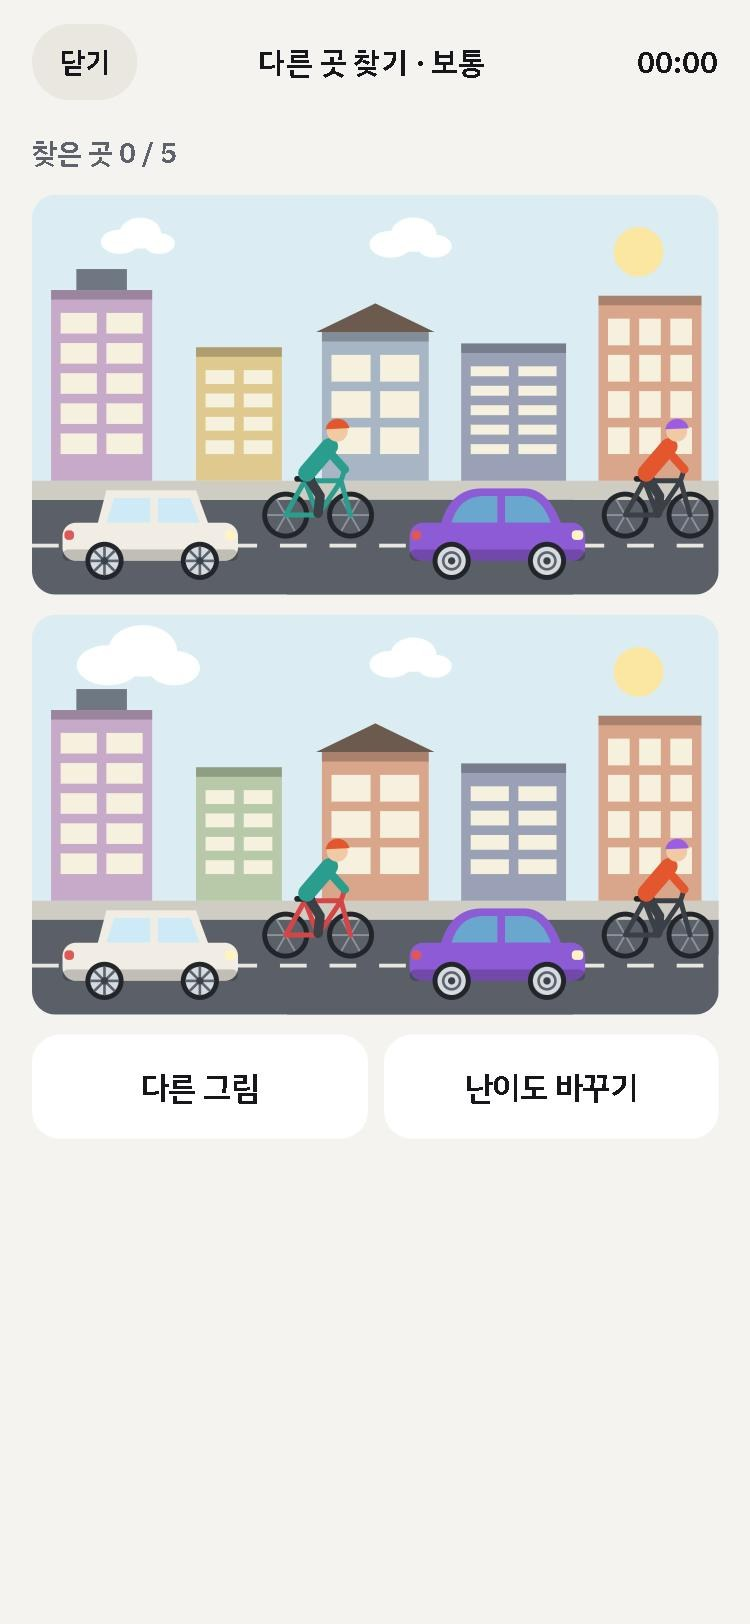
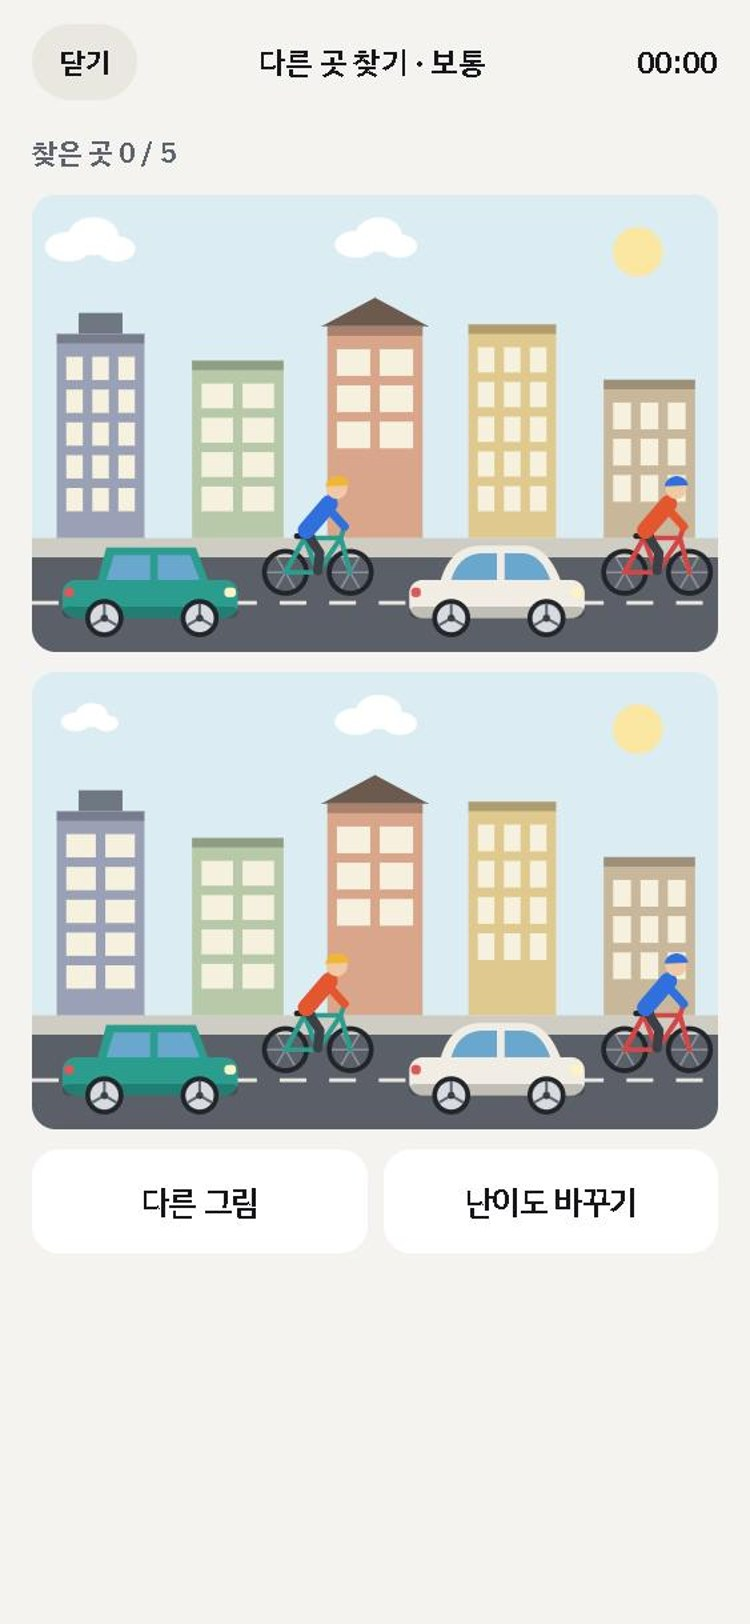
다른 곳 찾기: 구름이 건물에 가리지 않게 하늘을 넓힘

diff --git a/src/lib/spot.js b/src/lib/spot.js
@@ -11,7 +11,8 @@ export const SPOT_LEVELS = {
 }
 
 export const WRONG_PENALTY = 5 // 틀린 곳을 누르면 더해지는 시간(초)
-export const SCENE = { w: 360, h: 210, ground: 150 }
+// 하늘을 넉넉히 둬서 구름이 건물에 가리지 않게 한다. road는 자동차·자전거를 내려 그리는 만큼
+export const SCENE = { w: 360, h: 240, ground: 180, road: 30 }
 
 const WHEELS = ['spoke3', 'spoke4', 'spoke5', 'spoke6', 'spoke8', 'disc', 'ring']
 const RIMS = ['#d7dbe0', '#f2c14e', '#b9c4cf', '#e8e2d0']
@@ -98,7 +99,7 @@ function wheels() {
         id: `w${row}${col}`,
         type: 'wheel',
         cx: 45 + col * 90,
-        cy: 56 + row * 100,
+        cy: 66 + row * 108,
         r: 38,
         style: pick(WHEELS),
         rim: pick(RIMS),
@@ -120,7 +121,7 @@ function street(buildingCount, tilted) {
       type: 'building',
       x: Math.round(i * slot + (slot - w) / 2),
       w,
-      h: rand(70, 118),
+      h: rand(70, 112),
       color: pick(WALLS),
       roof: pick(ROOFS),
       cols: rand(2, 3),
@@ -130,7 +131,7 @@ function street(buildingCount, tilted) {
     })
   }
   ;[rand(30, 80), rand(170, 240)].forEach((x, i) =>
-    list.push({ id: `s${i}`, type: 'cloud', x, y: rand(16, 34), s: pick([0.9, 1, 1.1]) }),
+    list.push({ id: `s${i}`, type: 'cloud', x, y: rand(14, 24), s: pick([0.9, 1, 1.1]) }),
   )
   // 자전거(뒤쪽 차로)와 자동차(앞쪽 차로)는 서로 가리지 않게 번갈아 놓는다
   ;[122, 300].forEach((x, i) =>
@@ -174,9 +175,9 @@ export function generateSpot(level) {
 // 물체가 차지하는 네모 영역. 누르는 범위와 찾았다는 표시에 쓴다
 export function boxOf(o) {
   if (o.type === 'wheel') return { x: o.cx - o.r - 4, y: o.cy - o.r - 4, w: o.r * 2 + 8, h: o.r * 2 + 8 }
-  if (o.type === 'car') return { x: o.x - 3, y: 150, w: 98, h: 56 }
-  if (o.type === 'bike') return { x: o.x - 3, y: 116, w: 62, h: 66 }
-  if (o.type === 'cloud') return { x: o.x - 30, y: o.y - 18, w: 60, h: 34 }
+  if (o.type === 'car') return { x: o.x - 3, y: 150 + SCENE.road, w: 98, h: 56 }
+  if (o.type === 'bike') return { x: o.x - 3, y: 116 + SCENE.road, w: 62, h: 66 }
+  if (o.type === 'cloud') return { x: o.x - 32, y: o.y - 22, w: 64, h: 46 }
   // 건물은 구름 아래까지만. 높이가 달라져도 위아래 그림에서 누르는 범위가 같게 넉넉히 잡는다
-  return { x: o.x - 4, y: SCENE.ground - o.h - 26, w: o.w + 8, h: o.h + 28 }
+  return { x: o.x - 4, y: SCENE.ground - o.h - 22, w: o.w + 8, h: o.h + 24 }
 }

diff --git a/src/components/SpotGame.jsx b/src/components/SpotGame.jsx
@@ -118,7 +118,7 @@ function Levels({ best, onPick }) {
 
 // 그림 한 장. plain이면 배경 없이(휠만), 아니면 하늘·인도·도로를 깐다
 function Scene({ objects, found, wrong, onTap, name, plain }) {
-  const { w, h, ground } = SCENE
+  const { w, h, ground, road } = SCENE
   const order = { cloud: 0, building: 1, bike: 2, car: 3, wheel: 4 }
   const sorted = [...objects].sort((a, b) => order[a.type] - order[b.type])
   return (
@@ -146,8 +146,16 @@ function Scene({ objects, found, wrong, onTap, name, plain }) {
           {o.type === 'wheel' && <Wheel cx={o.cx} cy={o.cy} r={o.r} style={o.style} rim={o.rim} hub={o.hub} />}
           {o.type === 'cloud' && <Cloud s={o} />}
           {o.type === 'building' && <Building b={o} />}
-          {o.type === 'bike' && <Bike k={o} />}
-          {o.type === 'car' && <Car c={o} />}
+          {o.type === 'bike' && (
+            <g transform={`translate(0 ${road})`}>
+              <Bike k={o} />
+            </g>
+          )}
+          {o.type === 'car' && (
+            <g transform={`translate(0 ${road})`}>
+              <Car c={o} />
+            </g>
+          )}
         </g>
       ))}
 
